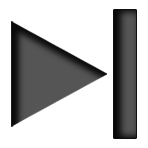
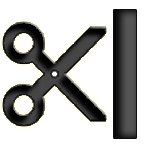
* new slider handle + cleanup * tick marks fixed and added in custom painter event code

Changed region(s): [[0.0, 0.1351, 0.7297, 0.8649]]

diff --git a/videoslider.py b/videoslider.py
@@ -1,10 +1,12 @@
 #!/usr/bin/env python3
 # -*- coding: utf-8 -*-
 
-from PyQt5.QtCore import QEvent, QPoint, Qt
-# from PyQt5.QtGui import QRegion, QPainter, QPen
-from PyQt5.QtWidgets import QSlider, QStyleFactory, QStyleOptionSlider, QToolTip, qApp
+from PyQt5.QtCore import QPoint, Qt
+from PyQt5.QtGui import QColor, QKeyEvent, QWheelEvent
+from PyQt5.QtWidgets import QSlider, QStyle, QStyleFactory, QStyleOptionSlider, QStylePainter, QToolTip, qApp
 
+
+# from QxtSpanSlider import QxtSpanSlider
 
 class VideoSlider(QSlider):
     def __init__(self, *arg, **kwargs):
@@ -13,10 +15,13 @@ class VideoSlider(QSlider):
         self.setOrientation(Qt.Horizontal)
         self.setObjectName('VideoSlider')
         self.setStatusTip('Set clip start and end points')
-        self.setCursor(Qt.PointingHandCursor)
+        self.setCursor(Qt.ClosedHandCursor)
+        self.setValue(0)
         self.setRange(0, 0)
         self.setSingleStep(1)
         self.setTracking(True)
+        self.setTickInterval(100000)
+        self.setTickPosition(QSlider.TicksAbove)
         self.setFocus()
         self.setCutMode(False)
         self.restrictValue = 0
@@ -26,32 +31,31 @@ class VideoSlider(QSlider):
         self.valueChanged.connect(self.restrictMove)
 
     def setSliderColor(self) -> None:
-        self.sliderQSS = '''QSlider:horizontal { margin: 15px 5px 10px; }
+        self.sliderQSS = '''QSlider:horizontal { margin: 20px 0 10px; }
 QSlider::groove:horizontal {
     border: 1px inset #999;
     background: qlineargradient(x1:0, y1:0, x2:0, y2:1, stop:0 %s, stop:1 %s);
-    height: 8px;
+    height: 14px;
     position: absolute;
-    left: 2px;
-    right: 2px;
-    margin: -2px 0;
+    left: 0;
+    right: 0;
+    margin: 0 0;
 }
 QSlider::sub-page:horizontal {
-    border: 1px solid #999;
+    border: 1px inset #999;
     background: qlineargradient(x1:0, y1:0, x2:0, y2:1, stop:0 %s, stop:1 %s);
-    height: 8px;
+    height: 14px;
     position: absolute;
-    left: 2px;
-    right: 2px;
-    margin: -2px 0;
+    left: 0;
+    right: 0;
+    margin: 0 0;
 }
 QSlider::handle:horizontal {
-    background: qlineargradient(x1:0, y1:0, x2:0, y2:1, stop:0 %s, stop:1 %s);
-    border: 1px solid #444;
-    width: 10px;
-    height: 14px;
-    margin: -14px -2px;
-    border-radius: 2px;
+    border: none;
+    background: url('images/slider-handle.png') no-repeat;
+    width: 20px;
+    height: 50px;
+    margin: -20px 0;
 }
 QSlider::handle:horizontal:hover {
     background: qlineargradient(x1:0, y1:0, x2:0, y2:1, stop:0 %s, stop:1 %s);
@@ -59,53 +63,66 @@ QSlider::handle:horizontal:hover {
         self.handleBack2, self.handleHoverBack1, self.handleHoverBack2)
         self.setStyleSheet(self.sliderQSS)
 
+    def setValueNoSignal(self, value: int) -> None:
+        self.blockSignals(True)
+        self.setValue(value)
+        self.blockSignals(False)
+
     def setRestrictValue(self, value: int) -> None:
         self.restrictValue = value
 
     def restrictMove(self, value: int) -> None:
         if value < self.restrictValue:
             self.setSliderPosition(self.restrictValue)
-            self.releaseMouse()
         else:
-            self.initStyleOption(self.opt)
-            rectHandle = self.style.subControlRect(self.style.CC_Slider, self.opt, self.style.SC_SliderHandle)
+            opt = QStyleOptionSlider()
+            self.initStyleOption(opt)
+            rectHandle = self.style.subControlRect(self.style.CC_Slider, opt, self.style.SC_SliderHandle, self)
             posLocal = rectHandle.topLeft() + QPoint(20, -20)
             posGlobal = self.mapToGlobal(posLocal)
             timerValue = self.parentWidget().timeCounter.text().split(' / ')[0]
             QToolTip.showText(posGlobal, timerValue, self)
 
     def setCutMode(self, flag: bool) -> None:
-        if flag:
-            self.grooveBack1 = '#FFF'
-            self.grooveBack2 = '#6A4572'
-            self.subBack1 = '#FFF'
-            self.subBack2 = '#FFF'
-            self.handleBack1 = '#666666'
-            self.handleBack2 = '#666666'
-            self.handleHoverBack1 = '#CCC'
-            self.handleHoverBack2 = '#999'
-        else:
-            self.grooveBack1 = '#FFF'
-            self.grooveBack2 = '#FFF'
-            self.subBack1 = '#FFF'
-            self.subBack2 = '#6A4572'
-            self.handleBack1 = '#666666'
-            self.handleBack2 = '#666666'
-            self.handleHoverBack1 = '#CCC'
-            self.handleHoverBack2 = '#999'
+        # if flag:
+        #     self.grooveBack1 = '#6A4572'
+        #     self.grooveBack2 = '#FFF'
+        #     self.subBack1 = '#FFF'
+        #     self.subBack2 = '#FFF'
+        # else:
+        self.grooveBack1 = '#CDCDCD'
+        self.grooveBack2 = '#CDCDCD'
+        self.subBack1 = '#FFF'
+        self.subBack2 = '#653970'
         self.setSliderColor()
 
-    # def paintEvent(self, event):
-    #     self.initStyleOption(self.opt)
-    #     rectHandle = self.style.subControlRect(self.style.CC_Slider, self.opt, self.style.SC_SliderHandle)
-    #     painter = QPainter(self)
-    #     pen = QPen(Qt.NoPen)
-    #     painter.setPen(pen)
-    #     painter.fillRect(0, 0, QStyle.sliderPositionFromValue(0, self.maximum(), self.sliderPosition(), self.width()), self.height(), Qt.white)
-    #     painter.fillRect(0, 0, 0.3 * self.width(), self.height(), Qt.magenta)
+    def paintEvent(self, event):
+        painter = QStylePainter(self)
+        opt = QStyleOptionSlider()
+        self.initStyleOption(opt)
+        handle = self.style.subControlRect(self.style.CC_Slider, opt, self.style.SC_SliderHandle, self)
+        interval = self.tickInterval()
+        if interval == 0:
+            interval = self.pageStep()
+        if self.tickPosition() != QSlider.NoTicks:
+            for i in range(self.minimum(), self.maximum(), interval):
+                x = round((((i - self.minimum()) / (self.maximum() - self.minimum()))
+                           * (self.width() - handle.width()) + (handle.width() / 2.0))) - 1
+                h = 6
+                painter.setPen(QColor('#A5A294'))
+                if self.tickPosition() in (QSlider.TicksBothSides, QSlider.TicksAbove):
+                    y = self.rect().top() + 13
+                    painter.drawLine(x, y, x, y + h)
+                if self.tickPosition() in (QSlider.TicksBothSides, QSlider.TicksBelow):
+                    y = self.rect().bottom() - 13
+                    painter.drawLine(x, y, x, y - h)
+        opt.subControls = QStyle.SC_SliderGroove
+        painter.drawComplexControl(QStyle.CC_Slider, opt)
+        opt.subControls = QStyle.SC_SliderHandle
+        painter.drawComplexControl(QStyle.CC_Slider, opt)
 
-    def wheelEvent(self, event: QEvent) -> None:
+    def wheelEvent(self, event: QWheelEvent) -> None:
         qApp.sendEvent(self.parentWidget(), event)
 
-    def keyPressEvent(self, event: QEvent) -> None:
+    def keyPressEvent(self, event: QKeyEvent) -> None:
         qApp.sendEvent(self.parentWidget(), event)

diff --git a/vidcutter.py b/vidcutter.py
@@ -18,12 +18,11 @@ from PyQt5.QtWidgets import (QAbstractItemView, QAction, QApplication, QFileDial
                              QMenu, QMessageBox, QProgressDialog, QPushButton, QSizePolicy, QSlider,
                              QStyle, QToolBar, QVBoxLayout, QWidget, qApp)
 
-if __name__ == '__main__':
-    from videoslider import VideoSlider
-    from videoservice import VideoService
-else:
-    from .videoslider import VideoSlider
-    from .videoservice import VideoService
+from videoslider import VideoSlider
+from videoservice import VideoService
+
+import resources
+
 
 signal.signal(signal.SIGINT, signal.SIG_DFL)
 signal.signal(signal.SIGTERM, signal.SIG_DFL)
@@ -378,6 +377,8 @@ class VidCutter(QWidget):
             self.videoplayerWidget.show()
             self.videoWidget.show()
             self.movieLoaded = True
+        if self.mediaPlayer.isVideoAvailable():
+            self.mediaPlayer.setPosition(1)
         self.mediaPlayer.pause()
 
     def playVideo(self) -> None:
@@ -399,7 +400,6 @@ class VidCutter(QWidget):
         self.mediaPlayer.setPosition(position)
 
     def positionChanged(self, progress: int) -> None:
-        self.setCursor(Qt.ClosedHandCursor)
         self.seekSlider.setValue(progress)
         currentTime = self.deltaToQTime(progress)
         totalTime = self.deltaToQTime(self.mediaPlayer.duration())
@@ -434,7 +434,7 @@ class VidCutter(QWidget):
         self.clipTimes.append([self.deltaToQTime(self.mediaPlayer.position()), '', self.captureImage()])
         self.cutStartAction.setDisabled(True)
         self.cutEndAction.setEnabled(True)
-        self.seekSlider.setRestrictValue(self.seekSlider.value())
+        self.seekSlider.setRestrictValue(self.seekSlider.value() + 1000)
         self.inCut = True
         self.renderTimes()
 
@@ -685,8 +685,11 @@ class VidCutter(QWidget):
         else:
             QMessageBox.critical(self.parent, 'Error', self.mediaPlayer.errorString())
 
-    def getAppPath(self) -> str:
-        return QFileInfo(__file__).absolutePath()
+    def getAppPath(self, isResource: bool = True) -> str:
+        if isResource:
+            return ':'
+        else:
+            return QFileInfo(__file__).absolutePath()
 
     def closeEvent(self, event: QCloseEvent) -> None:
         self.parent.closeEvent(event)
